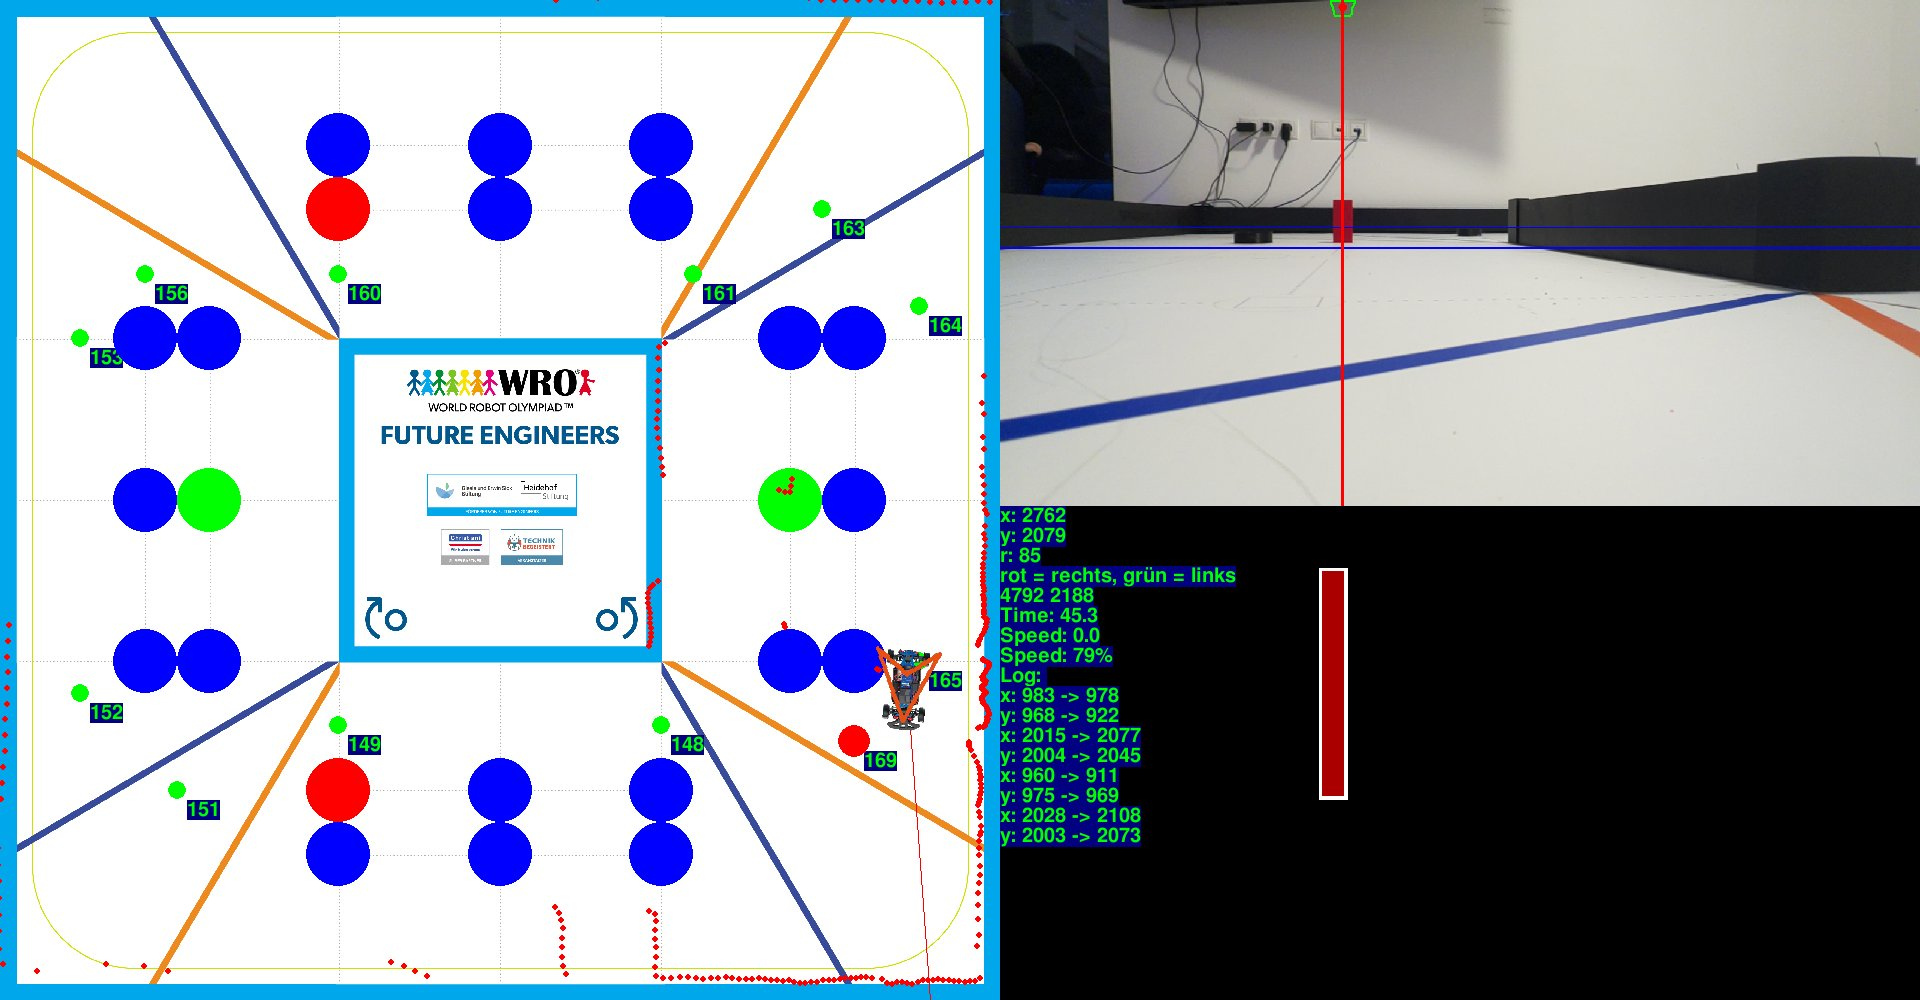
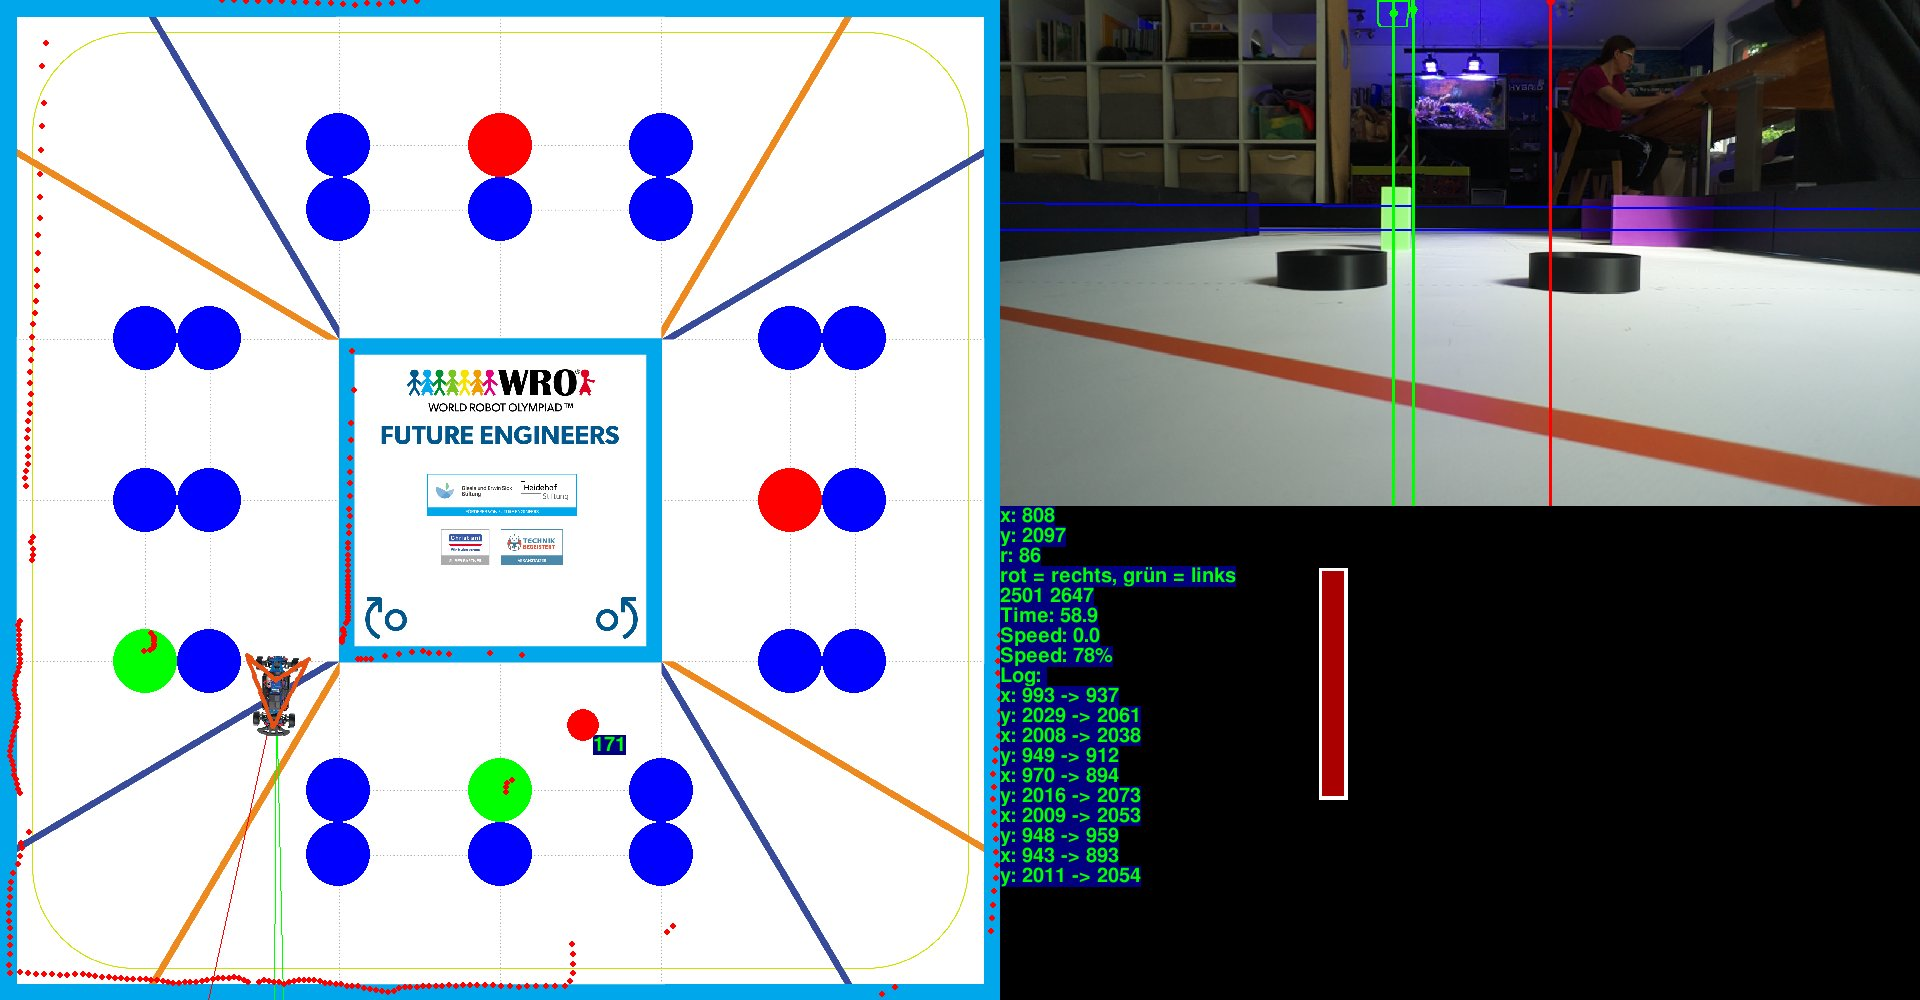
display added

diff --git a/src/main.py b/src/main.py
@@ -25,6 +25,26 @@ from camera import *
 from ctypes import *
 from adafruit_servokit import ServoKit # type: ignore
 
+import board
+from rainbowio import colorwheel
+
+import adafruit_is31fl3741 # type: ignore
+from adafruit_is31fl3741.adafruit_rgbmatrixqt import Adafruit_RGBMatrixQT # type: ignore
+
+i2c = board.I2C()
+lamp = Adafruit_RGBMatrixQT(i2c, allocate=adafruit_is31fl3741.PREFER_BUFFER)
+lamp.set_led_scaling(0xFF)
+lamp.global_current = 0xFF
+lamp.enable = True
+
+lamp.fill(0xff0000)  # fill the matrix with black
+lamp.show()
+
+# lamp.fill(0x000000) 
+# lamp.pixel(0, 0, 0xff0000)
+# lamp.pixel(5, 0, 0xff0000)
+# lamp.show()
+
 
 backupVersion = 3
 
@@ -143,7 +163,7 @@ def main():
         playmat.draw(screen, info, camera, robot)
         robot.draw(screen, playmat.matScale, slam.scan, slam)
         if info == 1:
-            playmat.Infos(screen, robot, slam, playmat.matScale, startTime, time)
+            playmat.Infos(screen, robot, slam, playmat.matScale, startTime, time,lamp)
         if firstCapture == 1 and takePicture:
             folder = "/home/pi/Wro/src/capture"
             for filename in os.listdir(folder):
@@ -207,6 +227,9 @@ def commandLoop(slam):
     
     button = gpiozero.Button("BOARD37")
     
+    lamp.fill(0x00ff00)
+    lamp.show()
+
     if button.is_pressed:
         while button.is_pressed:
             time.sleep(0.1)
@@ -215,11 +238,15 @@ def commandLoop(slam):
         print("Press v to start")
         while vPressed <= 0:
             time.sleep(0.1)
+    lamp.fill(0x000000)
+    lamp.show()
+    
     time.sleep(1)        
     slam.myOtos.calibrateImu(255)
     slam.startpostionsetzen()
     time.sleep(0.1)   
     startTime = time.time()
+    
     
     if slam.eventType == slam.ER:           
         speedi = 0.75
@@ -654,7 +681,7 @@ def commandLoop(slam):
 
             if checkForColor(Hindernisse.GREEN, 6, 12):
                 #print("Green")
-                orders.append(Order(x=800, y=1100,speed=speedScan,brake=1,type=Order.DESTINATION,num=38))
+                orders.append(Order(x=800, y=1100,speed=speedScan,brake=0,type=Order.DESTINATION,num=38))
                 orders.append(Order(x=800, y=2100,speed=speedScan,brake=1,type=Order.DESTINATION,num=39))
                 orders.append(Order(x=350, y=2284,speed=speedScan,brake=1,type=Order.DESTINATION,num=40))
             elif checkForColor(Hindernisse.RED, 6, 12):
@@ -692,7 +719,7 @@ def commandLoop(slam):
             if not waitCompleteOrders():
                 return
 
-            speedi = 0.5
+            speedi = 0.75
             
             for i in range(0,2):
                 if checkForColor(Hindernisse.RED, 0, 6):
@@ -716,7 +743,7 @@ def commandLoop(slam):
 
                 if checkForColor(Hindernisse.RED, 18, 24):
                     #print("Red")
-                    orders.append(Order(x=2700, y=2250,speed=speedi,brake=0,type=Order.DESTINATION,num=98))
+                    #orders.append(Order(x=2700, y=2250,speed=speedi,brake=0,type=Order.DESTINATION,num=98))
                     orders.append(Order(x=2800, y=2000,speed=speedi,brake=0,type=Order.DESTINATION,num=63))
                     orders.append(Order(x=2800, y=1000,speed=speedi,brake=0,type=Order.DESTINATION,num=64))
                 else:
@@ -754,7 +781,7 @@ def commandLoop(slam):
                     #print("Red")
                     orders.append(Order(x=230, y=900,speed=speedi,brake=0,type=Order.DESTINATION,num=76))
                     orders.append(Order(x=200, y=2050,speed=speedi,brake=1,type=Order.DESTINATION,num=77))
-                    if i == 0:
+                    if (i == 0) or checkForColor(Hindernisse.GREEN, 2, 6):
                         if not waitCompleteOrders():
                             return
                         time.sleep(0.5)
@@ -766,7 +793,7 @@ def commandLoop(slam):
                     orders.append(Order(x=800, y=1000,speed=speedi,brake=0,type=Order.DESTINATION,num=79))
                     orders.append(Order(x=800, y=2000,speed=speedi,brake=0,type=Order.DESTINATION,num=80))
                     if checkForColor(Hindernisse.GREEN, 0, 6):
-                        orders.append(Order(x=800, y=2020,speed=speedScan,brake=1,type=Order.DESTINATION,num=81))
+                        #orders.append(Order(x=800, y=2050,speed=speedScan,brake=1,type=Order.DESTINATION,num=81))
                         if not waitCompleteOrders():
                             return
                         time.sleep(0.5)
@@ -811,14 +838,15 @@ def commandLoop(slam):
                 orders.append(Order(x=1860, y=3000, speed=0.2, timeDrive=2, type=Order.DESTINATIONTIME))
             
             elif checkForColor(Hindernisse.GREEN, 6, 12):
-                orders.append(Order(x=1900, y=2200,speed=0.5, brake=1,type=Order.DESTINATION,num=173))
+                orders.append(Order(x=1760, y=2200, speed=0.5, brake=1,type=Order.DESTINATION,num=171))
                 orders.append(Order(zielwinkel=90, speed=0.2, brake=1, type=Order.WINKEL))
-                orders.append(Order(x=1870, y=3000, speed=0.2, timeDrive=4.5, type=Order.DESTINATIONTIME))
+                orders.append(Order(x=1860, y=3000, speed=0.2, timeDrive=4, type=Order.DESTINATIONTIME))
             
             else:
-                orders.append(Order(x=1970, y=2200, speed=0.5, brake=1,type=Order.DESTINATION,num=174))
+                orders.append(Order(x=1100, y=2200,speed=0.5, brake=1,type=Order.DESTINATION,num=173))
+                orders.append(Order(x=1760, y=2200, speed=0.5, brake=1,type=Order.DESTINATION,num=171))
                 orders.append(Order(zielwinkel=90, speed=0.2, brake=1, type=Order.WINKEL))
-                orders.append(Order(x=1870, y=3000, speed=0.2, timeDrive=4, type=Order.DESTINATIONTIME))
+                orders.append(Order(x=1860, y=3000, speed=0.2, timeDrive=4, type=Order.DESTINATIONTIME))
 
 
 def printOrder():

diff --git a/src/drawBoard.py b/src/drawBoard.py
@@ -5,6 +5,12 @@ import numpy as np
 import cv2 as cv2
 import threading
 
+import board
+from rainbowio import colorwheel
+
+import adafruit_is31fl3741 # type: ignore
+from adafruit_is31fl3741.adafruit_rgbmatrixqt import Adafruit_RGBMatrixQT # type: ignore
+
 # import main
 
 class Robot:
@@ -95,6 +101,8 @@ class Playmat:
     speedSetpoint = 0
     averageSpeedPercent = 0
     averageSpeedPercentCalc = 0
+    lastAngle = 0
+    lastTime = 0
     
     @staticmethod
     def log(msg):
@@ -143,13 +151,37 @@ class Playmat:
         screen.blit(frame, (self.wx * self.matScale, 0))
 
 
-    def Infos(self,screen,robot,slam,matScale,startTime,time):
+    def Infos(self,screen,robot,slam,matScale,startTime,time,lamp):
         green = (0, 255, 0)
         blue = (0, 0, 128)
         self.font = pygame.font.Font('freesansbold.ttf',20)
         
         # speedTest = 0.5
         # sppedsettest = 1
+        
+        # lamp.fill(0x000000) 
+        # lamp.pixel(0, 0, 0xff0000)
+        # lamp.pixel(5, 0, 0xff0000)
+        # lamp.show()
+        
+        turnSpeed = (self.lastAngle - slam.angle) / (time.time()-self.lastTime)
+        # print("turnSpeed: ", turnSpeed)
+        self.lastAngle = slam.angle
+        self.lastTime = time.time()
+        
+        # if math.floor(turnSpeed*100)/100 == 0.05:
+        #     turnSpeed = 0
+        
+        # lamp.fill(0x000000) 
+        
+        # for i in range(0, 13):
+        #     lamp.pixel(i, 5, 0x000000)
+        #     lamp.pixel(i, 6, 0x000000)
+        # for i in range(0, math.floor(13*abs(turnSpeed)/(1/10))):
+        #     lamp.pixel(i, 5, 0x00ff00)
+        #     lamp.pixel(i, 6, 0x00ff00)
+        # lamp.show()
+            
         
         if (self.speedSetpoint > 0) and (slam.speed < 10):
             height  = 700 * matScale
@@ -162,6 +194,33 @@ class Playmat:
             pygame.draw.rect(screen, (255, 255, 255), ((self.wx + 990) * self.matScale, 190 * matScale + ((screen.get_width() - self.wx * self.matScale) * 0.55078125), 90 * matScale, height + 20 * matScale))
             pygame.draw.rect(screen, (170, 0, 0), ((self.wx + 1000) * self.matScale, 200 * matScale + ((screen.get_width() - self.wx * self.matScale) * 0.55078125), 70 * matScale, height))
             pygame.draw.rect(screen, (0, 255, 0), ((self.wx + 1000) * self.matScale, 200 * matScale + height-height*percentSpeed + ((screen.get_width() - self.wx * self.matScale) * 0.55078125), 70 * matScale, height * percentSpeed))
+
+            # for i in range(0, 13):
+            #     lamp.pixel(i, 2, 0x000000)
+            #     lamp.pixel(i, 3, 0x000000)
+            # for i in range(0, math.floor(6*percentSpeed)):
+            #     lamp.pixel(i, 2, 0x00ff00)
+            #     lamp.pixel(i, 3, 0x00ff00)
+            # lamp.show()
+            
+            for i in range(0, 13):
+                lamp.pixel(i, 2, 0x000000)
+                lamp.pixel(i, 3, 0x000000)
+                
+            for i in range(0, math.floor(self.speedSetpoint*13)):
+                lamp.pixel(i, 2, 0xff0000)
+                lamp.pixel(i, 3, 0xff0000)
+            
+            for i in range(0, math.floor(slam.speed*13)):
+                lamp.pixel(i, 2, 0x00ff00)
+                lamp.pixel(i, 3, 0x00ff00)
+            
+            lamp.pixel(math.floor(self.speedSetpoint*13), 2, 0xff0000)
+            lamp.pixel(math.floor(self.speedSetpoint*13), 3, 0xff0000)
+            
+            lamp.show()
+            
+            
 
         prints = 9
         for i in range(prints + len(self.logList)):

diff --git a/src/motorController.py b/src/motorController.py
@@ -17,33 +17,33 @@ class PIDController:
     def compute(self, process_variable, dt):
             # Calculate error
             error = self.setpoint - process_variable
-
+            
             # Proportional term
             P_out = self.Kp * error
-
+            
             # Integral term
             self.integral += error * dt
-
+            
             if self.Ki * self.integral > self.max:
                 self.integral = self.max / self.Ki
             if self.Ki * self.integral < self.min:
                 self.integral = self.min / self.Ki
             I_out = self.Ki * self.integral
-
+            
             # Derivative term
             derivative = (error - self.previous_error) / dt
             D_out = self.Kd * derivative
-
+            
             # Compute total output
             output = P_out + I_out + D_out
-
+            
             # Update previous error
             self.previous_error = error
             if output > self.max:
                 output = self.max
             if output < self.min:
                 output = self.min
-
+            
             return output
 
 def setServoAngle(kit,angle):
@@ -75,35 +75,34 @@ class DriveBase:
 
     def driveTo(self, x, y, speed, brake):
         self.pidController.setpoint = speed
-
+        
         distance = math.sqrt(math.pow((self.slam.xpos - x),2) + math.pow((self.slam.ypos - y),2))
         zielwinkel = -(math.atan2(self.slam.ypos - y, self.slam.xpos - x) / math.pi * 180)
-
-
+        
+        
         fehlerwinkel = -zielwinkel + self.slam.angle
         while fehlerwinkel > 180:
             fehlerwinkel -= 360
         while fehlerwinkel < -180:
             fehlerwinkel += 360
-
+        
         if self.zielWinkel == 5000:
             self.zielWinkel = zielwinkel
-
+        
         distanceLine = distance * math.cos((self.zielWinkel - zielwinkel) / 180 * math.pi)
-
+        
         if (abs(distanceLine) < 200) and (brake == 1):
             self.pidController.setpoint = speed * distanceLine / 200
-
+        
         outputSteer = self.pidSteer.compute(fehlerwinkel,1)
-
+        
         output = self.pidController.compute(self.slam.speed,0.5)
-
-
-        print("DisLine: ",math.floor(distanceLine))
+        
+        
         setServoAngle(self.kit,90 + outputSteer)
         self.kit.servo[3].angle = 99 + output
-
-        if distanceLine < 30:    # or fehlerwinkel > 90 or fehlerwinkel < -90:
+        
+        if distanceLine < 30:
             self.zielWinkel = 5000
             self.kit.servo[3].angle = 90
             return True

diff --git a/src/camera.py b/src/camera.py
@@ -42,6 +42,8 @@ class Camera():
 
         assert hsv is not None, "file could not be read, check with os.path.exists()"
 
+        # in photo shop: rgb -> vsh
+        
         # lower boundary RED color range values; Hue (0 - 10)
         lower1 = np.array([0, 100, 20])
         upper1 = np.array([10, 255, 255])
@@ -107,6 +109,6 @@ class Camera():
                 self.blocksAngle.append((mid - cX) / split)
                 self.blocksColor.append(self.RED)
         
-                
+        cv.imwrite('capture/hsv.jpg', hsv)
         # cv.imwrite('capture/imgclear.jpg', imgclear)
         self.imgCam = imgclear
